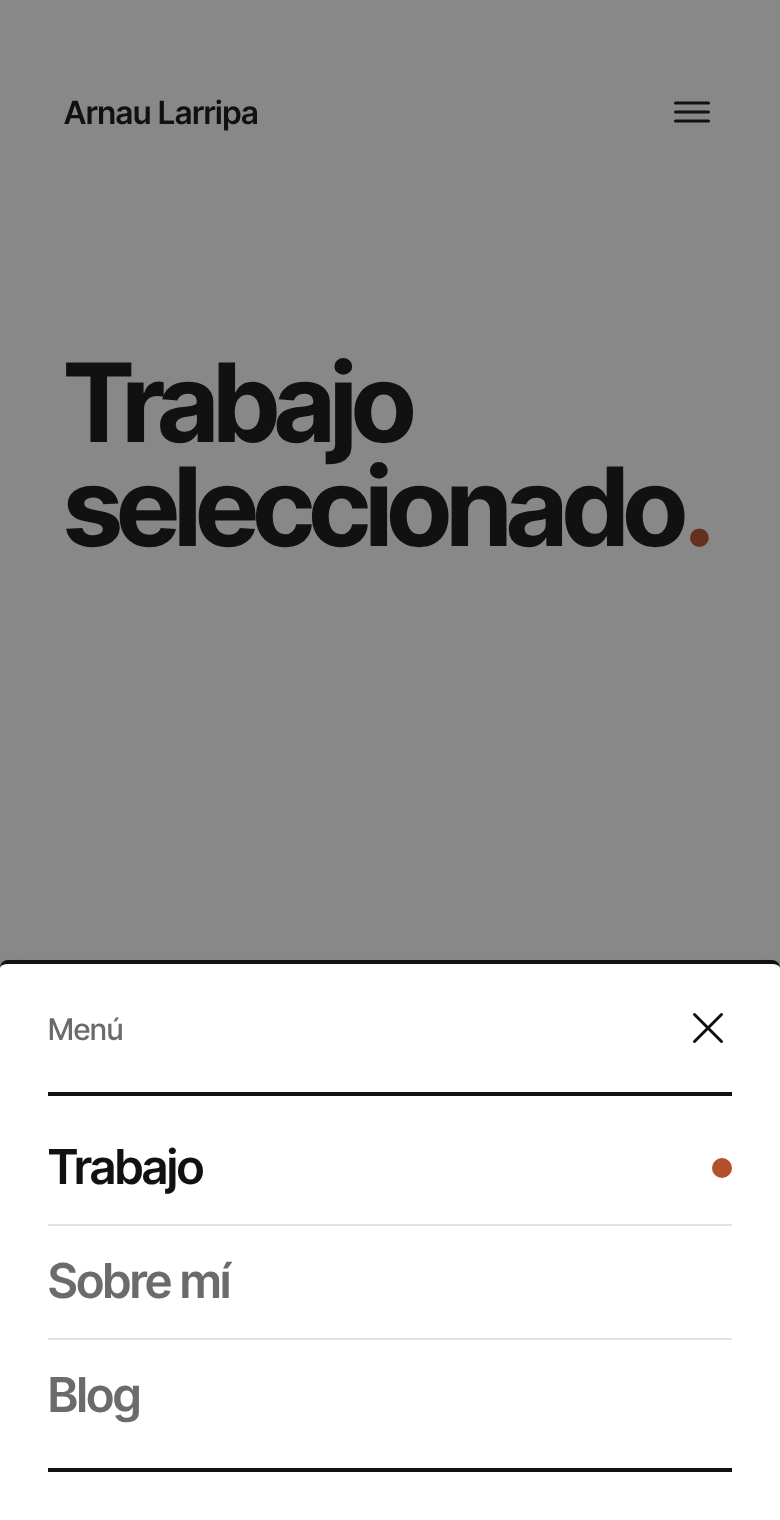
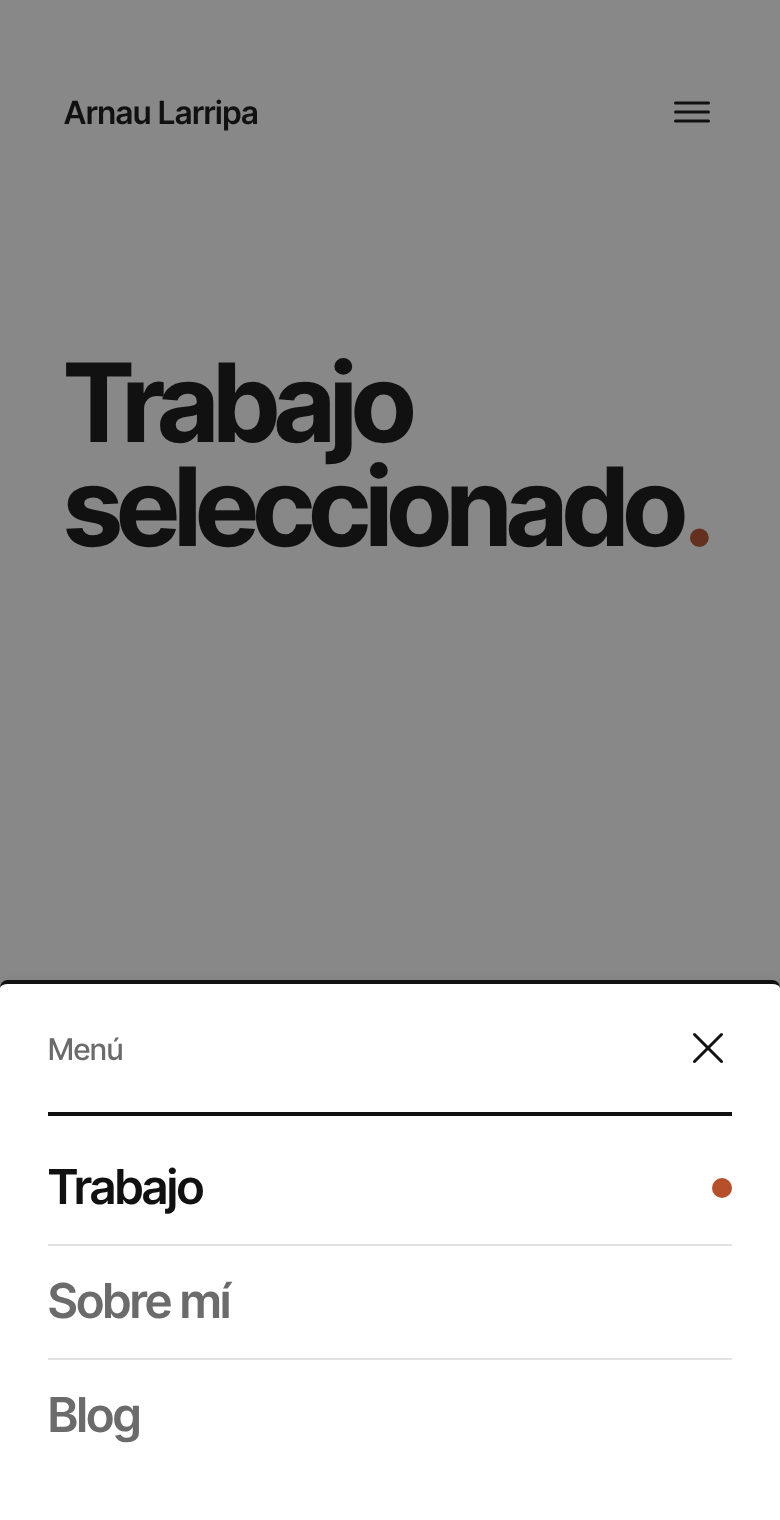
Propuesta de navegación: sin línea inferior en la hoja móvil cuando Lab e idioma están ocultos
Claude-Session: https://claude.ai/code/session_01JS6xCBDNNodswqTgx73xbD

Changed region(s): [[0.0, 0.6184, 1.0, 0.9586]]

diff --git a/diseno/propuestas/navegacion/nav.css b/diseno/propuestas/navegacion/nav.css
@@ -28,6 +28,8 @@
 .ds-sheet__bar .ds-close{margin-right:-12px}
 .ds-sheet__bar p{margin:0}
 .ds-sheet__list{list-style:none;margin:var(--space-1) 0 0;padding:var(--space-1) 0;border-top:2px solid var(--line-strong);border-bottom:2px solid var(--line-strong)}
+/* Sin Lab ni idioma debajo, la lista no lleva línea de cierre */
+.ds-sheet__list:has(+ .ds-sheet__lab[hidden] + .ds-sheet__lang[hidden]){border-bottom:0;padding-bottom:0}
 .ds-sheet__list>li+li{border-top:1px solid var(--line)}
 @media (min-width:640px){.ds-sheet__panel{padding-inline:var(--space-6)}}
 html.ds-lock{overflow:hidden}

diff --git a/diseno/propuestas/navegacion/LEEME.md b/diseno/propuestas/navegacion/LEEME.md
@@ -25,7 +25,7 @@ Abre los `.html` de esta carpeta en el navegador (usan los estilos reales de `sr
 **Móvil y tableta (menos de 1024 px): bottom sheet**
 - Nombre a la izquierda y botón de hamburguesa **solo con icono** (48 × 48 px) a la derecha. El icono no cambia al abrirse: la hoja se cierra con su propia X.
 - Al pulsarlo se abre una **hoja desde abajo** con velo oscuro, que ocupa solo la altura de su contenido. Se construye como el panel de contacto: un `<dialog>` con `showModal()` (foco atrapado, Escape y fondo inerte de forma nativa), borde superior de 2 px y esquinas superiores de 4 px.
-- Dentro, de arriba abajo: etiqueta «Menú» y botón X de cierre (`.ds-close`, alineado donde estaba el icono de hamburguesa); línea gruesa; **navegación de la página** (Trabajo · Sobre mí · Blog, a 24 px, líneas finas entre ellos y punto terracota en la actual); línea gruesa; **Lab.** aparte; un hueco amplio (64 px, el doble que antes) y, **sin separador**, el **idioma** en tres celdas iguales con siglas (ES · CA · EN, mínimo 56 px de alto). Si Lab está oculto, el idioma sube a 32 px de la lista.
+- Dentro, de arriba abajo: etiqueta «Menú» y botón X de cierre (`.ds-close`, alineado donde estaba el icono de hamburguesa); línea gruesa; **navegación de la página** (Trabajo · Sobre mí · Blog, a 24 px, líneas finas entre ellos y punto terracota en la actual); línea gruesa; **Lab.** aparte; un hueco amplio (64 px, el doble que antes) y, **sin separador**, el **idioma** en tres celdas iguales con siglas (ES · CA · EN, mínimo 56 px de alto). Si Lab está oculto, el idioma sube a 32 px de la lista. **Con Lab e idioma ocultos (estado de lanzamiento) la línea gruesa inferior desaparece**: la lista termina sin separador.
 - Se cierra con la X, tocando el velo o con Escape. Sin gesto de arrastrar (queda fuera de la primera versión).
 - A 640–1023 px la hoja ocupa todo el ancho con márgenes de 48 px.
 
